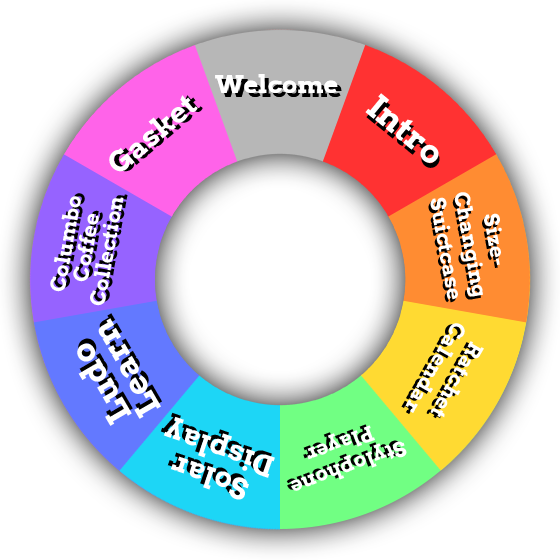
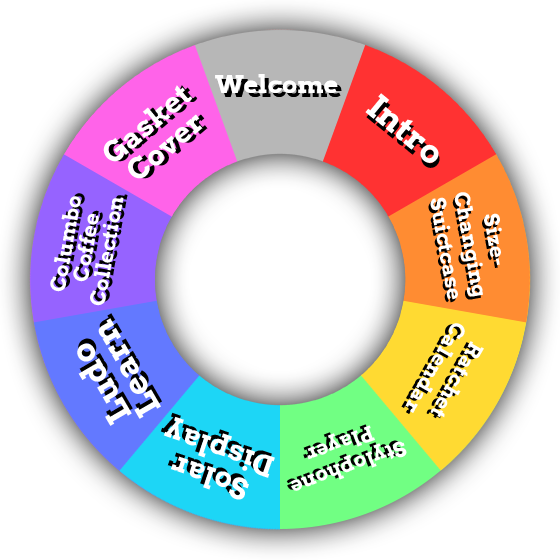
Change "Gasket" to "Gasket Cover"

Changed region(s): [[0.1821, 0.1518, 0.3643, 0.3339]]

diff --git a/index.html b/index.html
@@ -526,9 +526,9 @@
                 </p>
             </div>
 
-            <!-- Slice 9: Gasket -->
+            <!-- Slice 9: Gasket Cover -->
             <div class="container-fluid" id="content-8">
-                <h1>Gasket</h1>
+                <h1>Gasket Cover</h1>
                 <p>Summer 2024</p>
                 <img
                     src="img/Gasket-M.png"
